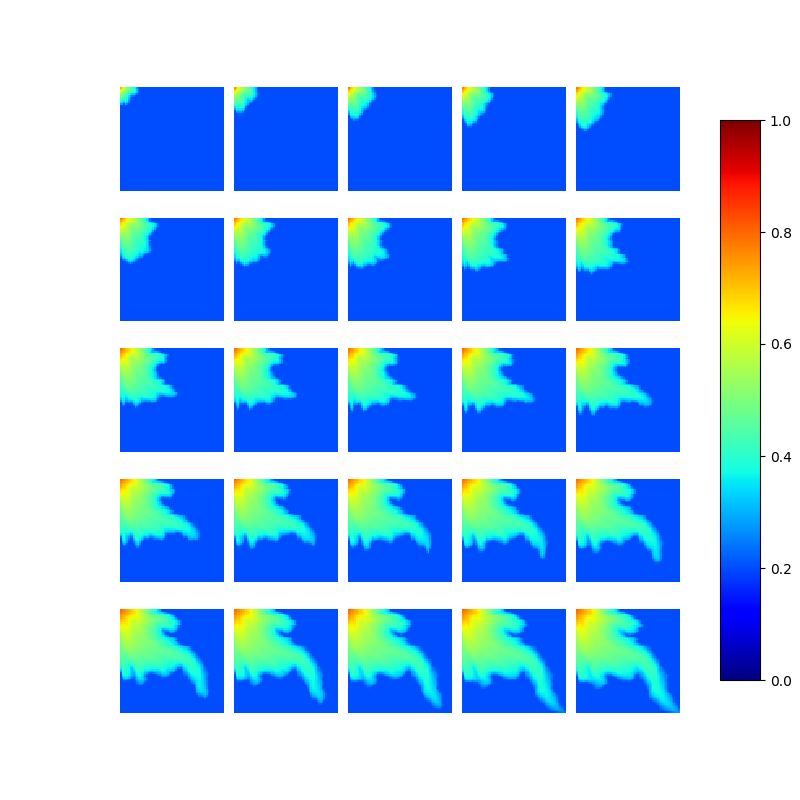
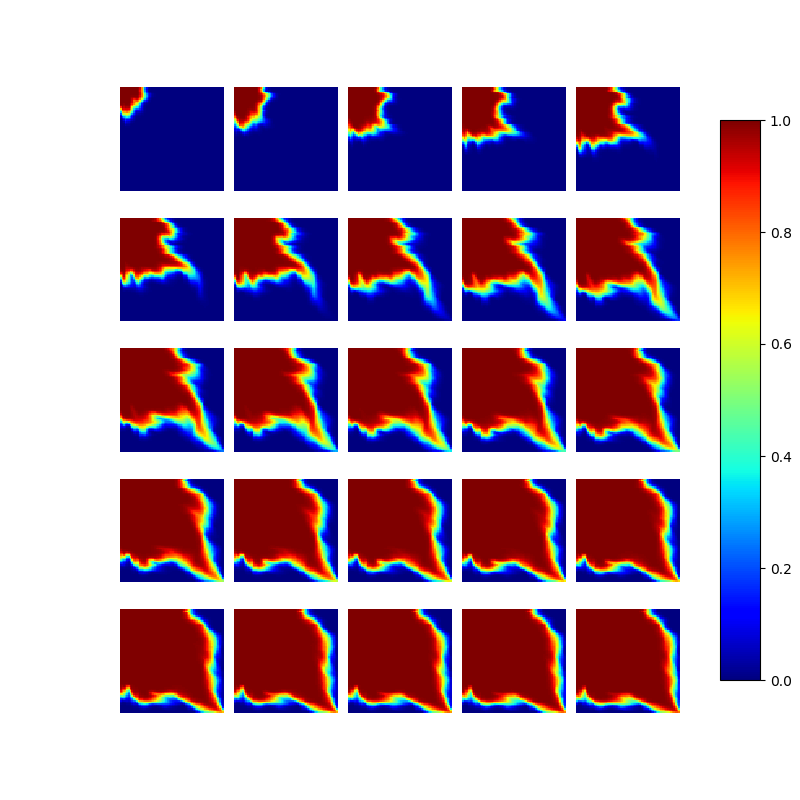
add test cases

diff --git a/test_cases_1ph.py b/test_cases_1ph.py
@@ -1,0 +1,125 @@
+""" Transient single-phase flow """
+
+from time import time
+import numpy as np
+import ressim
+
+def test_case_scipy():
+
+    np.random.seed(42)  # for reproducibility
+
+    grid = ressim.Grid(nx=64, ny=64, lx=1.0, ly=1.0)  # unit square, 64x64 grid
+    k = np.exp(np.load('perm.npy').reshape(grid.shape))  # load log-permeability, convert to absolute with exp()
+    q = np.zeros(grid.shape); q[0,0]=1; q[-1,-1]=-1  # source term: corner-to-corner flow (a.k.a. quarter-five spot)
+
+    phi = np.ones(grid.shape)*0.2  # uniform porosity
+    s0 = np.zeros(grid.shape)  # initial water saturation
+    dt = 1e-2  # timestep
+
+    def f_fn(s): return s  # water fractional flow; for single-phase flow, f(s) = s
+
+    # (Optional) derivative of water fractional flow; in single-phase flow, f'(s) = 1
+    # This is to compute the jacobian of the residual to accelerate the
+    # saturation solver. If not provided, the jacobian is approximated in the
+    # solver.
+    def df_fn(s): return np.ones(len(s))
+
+    # instantiate solvers
+    solverP = ressim.PressureEquation(grid, q=q, k=k)
+    solverS = ressim.SaturationEquation(grid, q=q, phi=phi, s=s0, f_fn=f_fn, df_fn=df_fn)
+
+    # solve for 25 timesteps
+    nstep=25
+    # solve pressure; in single-phase, we only need to solve it once
+    solverP.step()
+    solverS.v = solverP.v
+    s_list = []
+    t_list = []
+    for _ in range(nstep):
+        before = time()
+        # solve saturation
+        solverS.step(dt)
+        after = time()
+        s_list.append(solverS.s)
+        t_list.append(after-before)
+    return s_list, t_list
+
+def test_case_implicit():
+
+    np.random.seed(42)  # for reproducibility
+
+    grid = ressim.Grid(nx=64, ny=64, lx=1.0, ly=1.0)  # unit square, 64x64 grid
+    k = np.exp(np.load('perm.npy').reshape(grid.shape))  # load log-permeability, convert to absolute with exp()
+    q = np.zeros(grid.shape); q[0,0]=1; q[-1,-1]=-1  # source term: corner-to-corner flow (a.k.a. quarter-five spot)
+
+    phi = np.ones(grid.shape)*0.2  # uniform porosity
+    s0 = np.zeros(grid.shape)  # initial water saturation
+    dt = 1e-2  # timestep
+
+    def f_fn(s): return s  # water fractional flow; for single-phase flow, f(s) = s
+
+    # (Optional) derivative of water fractional flow; in single-phase flow, f'(s) = 1
+    # This is to compute the jacobian of the residual to accelerate the
+    # saturation solver. If not provided, the jacobian is approximated in the
+    # solver.
+    def df_fn(s): return np.ones(len(s))
+
+    # instantiate solvers
+    solverP = ressim.PressureEquation(grid, q=q, k=k)
+    solverS = ressim.SaturationEquation(grid, q=q, phi=phi, s=s0, f_fn=f_fn, df_fn=df_fn)
+
+    # solve for 25 timesteps
+    nstep=25
+    # solve pressure; in single-phase, we only need to solve it once
+    solverP.step()
+    solverS.v = solverP.v
+    s_list = []
+    t_list = []
+    for _ in range(nstep):
+        before = time()
+        # solve saturation
+        solverS.step_mrst(dt)
+        after = time()
+        s_list.append(solverS.s)
+        t_list.append(after-before)
+    return s_list, t_list
+
+def test_case_explicit():
+
+    np.random.seed(42)  # for reproducibility
+
+    grid = ressim.Grid(nx=64, ny=64, lx=1.0, ly=1.0)  # unit square, 64x64 grid
+    k = np.exp(np.load('perm.npy').reshape(grid.shape))  # load log-permeability, convert to absolute with exp()
+    q = np.zeros(grid.shape); q[0,0]=1; q[-1,-1]=-1  # source term: corner-to-corner flow (a.k.a. quarter-five spot)
+
+    phi = np.ones(grid.shape)*0.2  # uniform porosity
+    s0 = np.zeros(grid.shape)  # initial water saturation
+    dt = 1e-2  # timestep
+
+    def f_fn(s): return s  # water fractional flow; for single-phase flow, f(s) = s
+
+    # (Optional) derivative of water fractional flow; in single-phase flow, f'(s) = 1
+    # This is to compute the jacobian of the residual to accelerate the
+    # saturation solver. If not provided, the jacobian is approximated in the
+    # solver.
+    def df_fn(s): return np.ones(len(s))
+
+    # instantiate solvers
+    solverP = ressim.PressureEquation(grid, q=q, k=k)
+    solverS = ressim.SaturationEquation(grid, q=q, phi=phi, s=s0, f_fn=f_fn, df_fn=df_fn)
+
+    # solve for 25 timesteps
+    nstep=25
+    # solve pressure; in single-phase, we only need to solve it once
+    solverP.step()
+    solverS.v = solverP.v
+    s_list = []
+    t_list = []
+    for _ in range(nstep):
+        before = time()
+        # solve saturation
+        solverS.step_explicit(dt,0,0)
+        after = time()
+        s_list.append(solverS.s)
+        t_list.append(after-before)
+    return s_list, t_list

diff --git a/solver_comparison_1ph.py b/solver_comparison_1ph.py
@@ -1,0 +1,54 @@
+
+import numpy as np
+import matplotlib.pyplot as plt
+
+from test_cases_1ph import test_case_scipy, test_case_implicit, test_case_explicit
+
+s_explicit, t_explicit = test_case_explicit()
+s_scipy, t_scipy = test_case_scipy()
+s_implicit, t_implicit = test_case_implicit()
+
+s_explicit = np.array(s_explicit)
+t_explicit = np.array(t_explicit)
+s_scipy = np.array(s_scipy)
+t_scipy = np.array(t_scipy)
+s_implicit = np.array(s_implicit)
+t_implicit = np.array(t_implicit)
+
+
+# visualize
+
+# solution comparson
+
+fig, axs = plt.subplots(2,2, figsize=(8,8))
+fig.subplots_adjust(wspace=0.5, hspace=0.5, left=0.15, right=0.85, bottom=0.1, top=0.9)
+
+# saturations at point [16,16]
+indices = [1,16,32,48]
+fig.suptitle('Comparison of Saturation Equation Solvers', fontsize=16)
+for ax, ind in zip(axs.ravel(), indices):
+    ax.plot(s_scipy[:,ind,ind], 'o--')
+    ax.plot(s_implicit[:,ind,ind], '.--')
+    ax.plot(s_explicit[:,ind,ind], 'x--')
+    ax.set_xticks(range(0,26,5))
+    ax.set_xlabel('timesteps')
+    ax.set_ylabel('water saturation')
+    ax.set_ylim([0.0,1.0])
+    ax.grid()
+    ax.legend(['SciPy', 'Implicit', 'Explicit'])
+    ax.set_title('S[{},{}]'.format(ind,ind))
+fig.savefig('solution_compare_1ph.png', bbox_inches=0, pad_inches=0)
+
+# time comparison
+plt.clf()
+plt.plot()
+plt.plot(t_scipy, 'o--')
+plt.plot(t_implicit, '.--')
+plt.plot(t_explicit, 'x--')
+plt.grid()
+plt.legend(['SciPy', 'Implicit', 'Explicit'])
+plt.title('Computational Time for each Solver')
+plt.xlabel('simulation timestep')
+plt.ylabel('computational time (sec)')
+plt.ylim([0.0,0.2])
+plt.savefig('time_comparison_1ph.png',  bbox_inches=0, pad_inches=0)

diff --git a/solver_comparison_2ph.py b/solver_comparison_2ph.py
@@ -1,0 +1,53 @@
+import numpy as np
+import matplotlib.pyplot as plt
+
+from test_cases_2ph import test_case_scipy, test_case_implicit, test_case_explicit
+
+s_explicit, t_explicit = test_case_explicit()
+s_scipy, t_scipy = test_case_scipy()
+s_implicit, t_implicit = test_case_implicit()
+
+s_explicit = np.array(s_explicit)
+t_explicit = np.array(t_explicit)
+s_scipy = np.array(s_scipy)
+t_scipy = np.array(t_scipy)
+s_implicit = np.array(s_implicit)
+t_implicit = np.array(t_implicit)
+
+
+# visualize
+
+# solution comparson
+
+fig, axs = plt.subplots(2,2, figsize=(8,8))
+fig.subplots_adjust(wspace=0.5, hspace=0.5, left=0.15, right=0.85, bottom=0.1, top=0.9)
+
+# saturations at point [16,16]
+indices = [1,16,32,48]
+fig.suptitle('Comparison of Saturation Equation Solvers', fontsize=16)
+for ax, ind in zip(axs.ravel(), indices):
+    ax.plot(s_scipy[:,ind,ind], 'o--')
+    ax.plot(s_implicit[:,ind,ind], '.--')
+    ax.plot(s_explicit[:,ind,ind], 'x--')
+    ax.set_ylim([0.2,0.8])
+    ax.set_xticks(range(0,26,5))
+    ax.set_xlabel('timesteps')
+    ax.set_ylabel('water saturation')
+    ax.grid()
+    ax.legend(['SciPy', 'Implicit', 'Explicit'])
+    ax.set_title('S[{},{}]'.format(ind,ind))
+fig.savefig('solution_compare_2ph.png', bbox_inches=0, pad_inches=0)
+
+# time comparison
+plt.clf()
+plt.plot()
+plt.plot(t_scipy, 'o--')
+plt.plot(t_implicit, '.--')
+plt.plot(t_explicit, 'x--')
+plt.grid()
+plt.legend(['SciPy', 'Implicit', 'Explicit'])
+plt.title('Computational Time for each Solver')
+plt.xlabel('simulation timestep')
+plt.ylabel('computational time (sec)')
+plt.ylim([0.0,0.2])
+plt.savefig('time_comparison_2ph.png',  bbox_inches=0, pad_inches=0)

diff --git a/main_singlephase.py b/main_singlephase.py
@@ -43,7 +43,7 @@ s_list = []
 for i in range(nstep):
     before = time()
     # solve saturation
-    solverS.step_explicit(dt,0,0)
+    solverS.step_explicit(dt,0.0,0.0)
     after = time()
     print('[{}/{}]: this loop took {} secs'.format(i+1, nstep, after - before))
     s_list.append(solverS.s)

diff --git a/test_cases_2ph.py b/test_cases_2ph.py
@@ -8,12 +8,6 @@ import functools
 import ressim
 import utils
 
-import matplotlib
-matplotlib.use('Agg')
-matplotlib.rcParams['image.cmap'] = 'jet'
-import matplotlib.pyplot as plt
-
-
 def test_case_scipy():
 
     np.random.seed(42)  # for reproducibility
